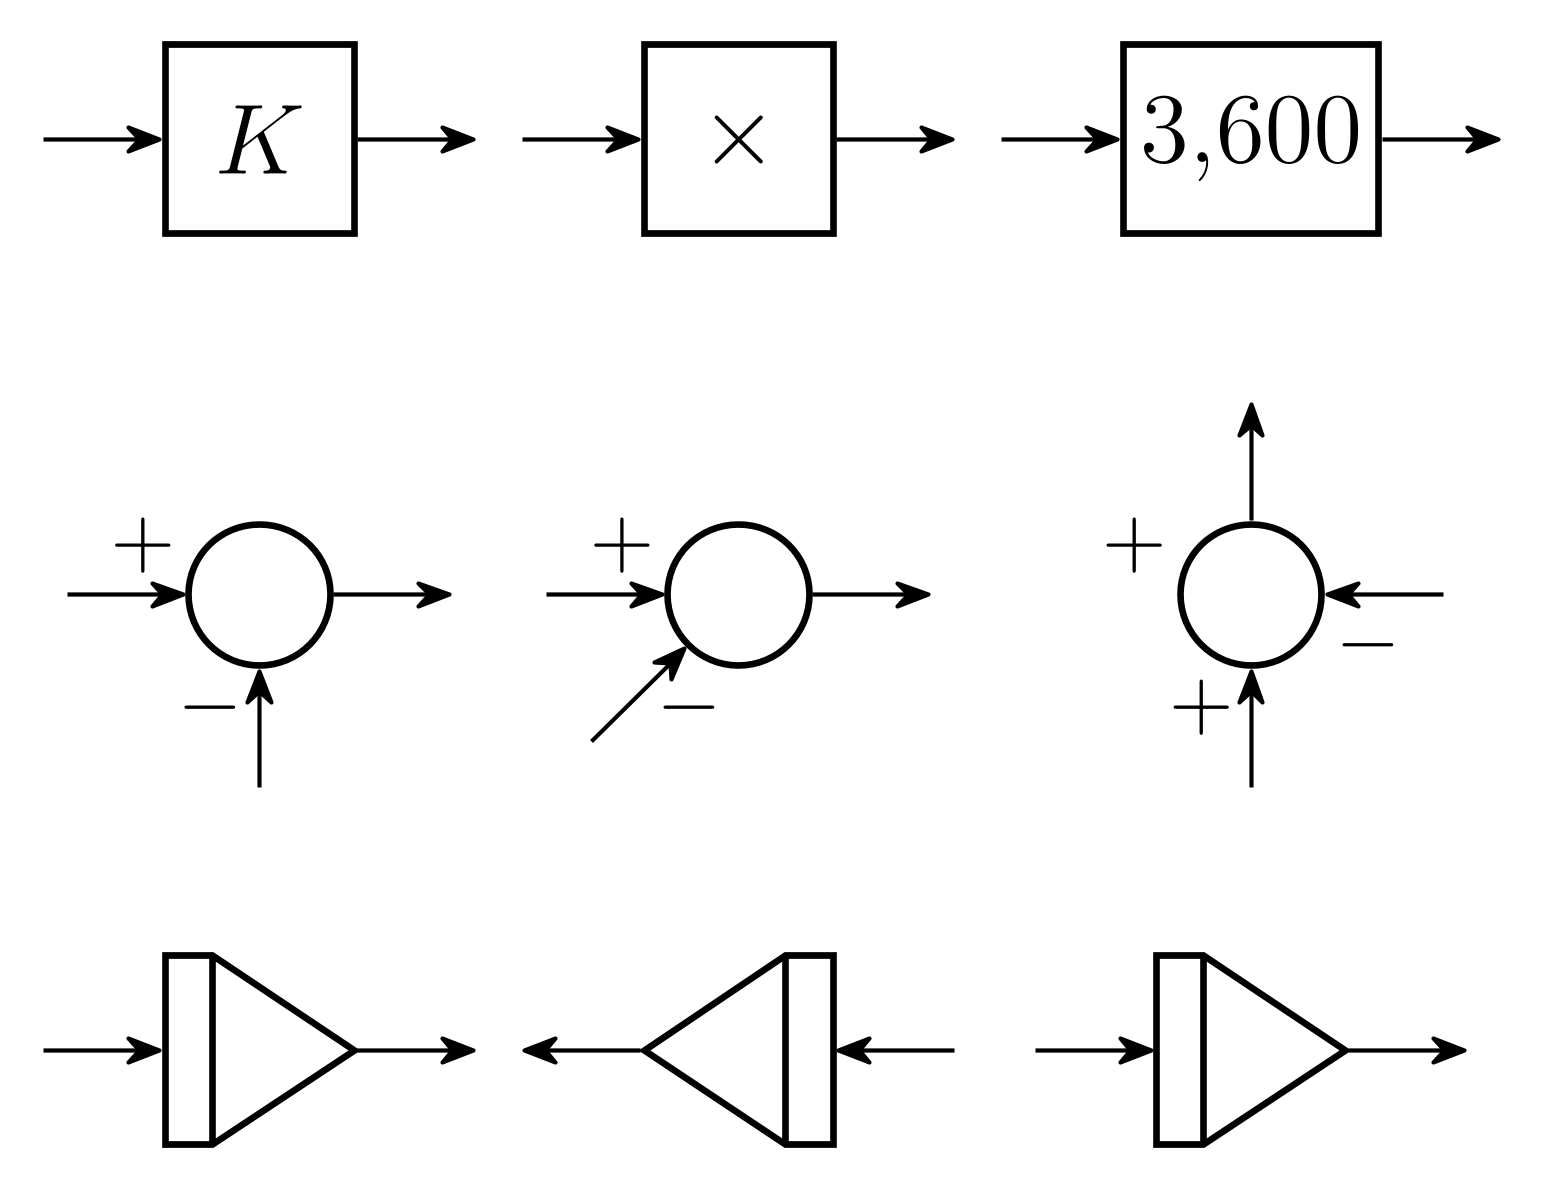
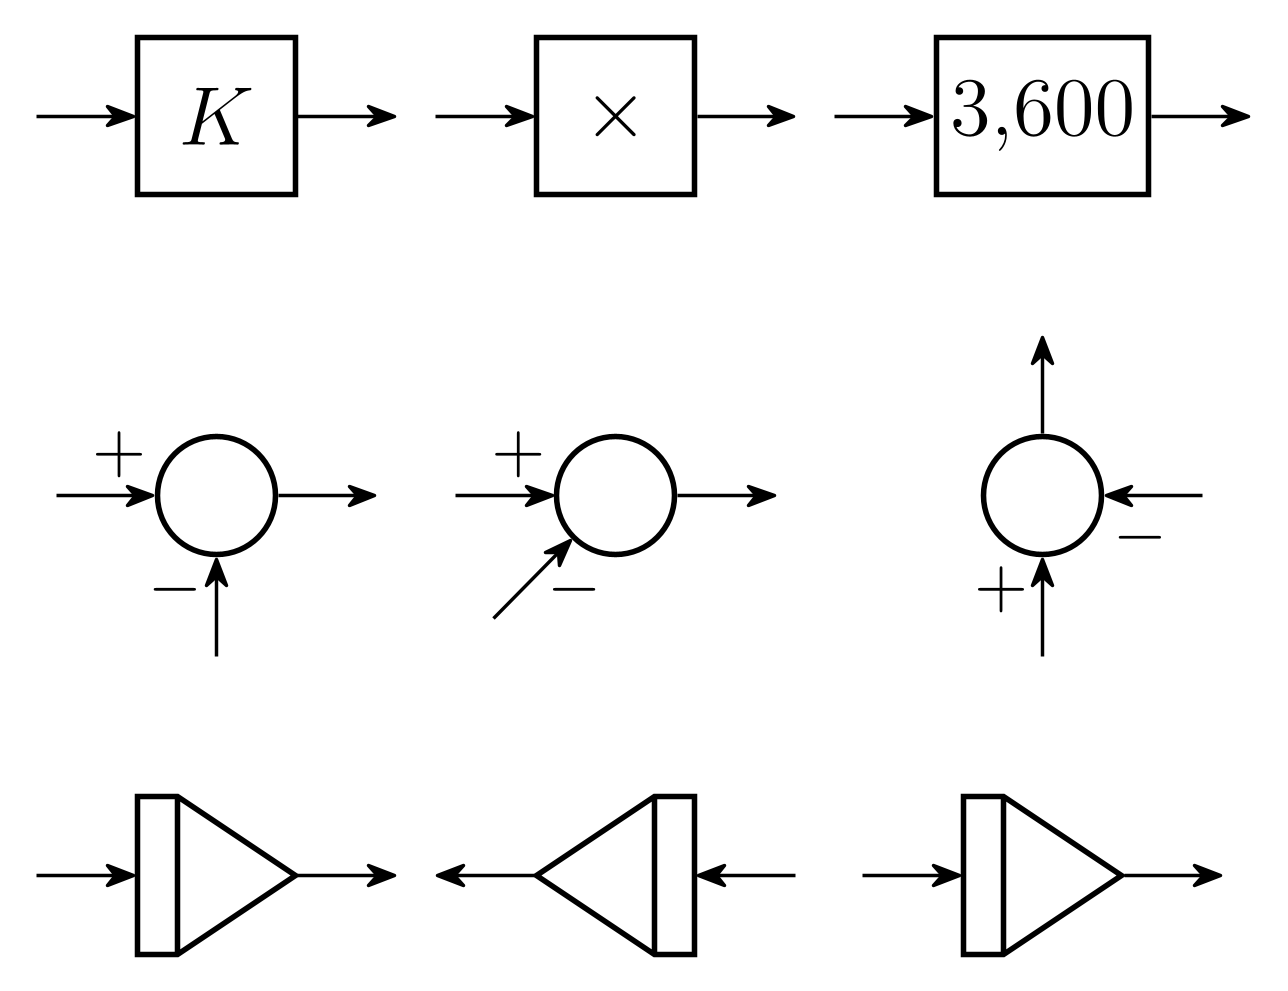
removed minus sign in showcase

diff --git a/examples/showcase-control-shapes.tex b/examples/showcase-control-shapes.tex
@@ -12,7 +12,7 @@
 
     \node[sum, below=of m1, sum signs={west=+, south=-}] (s1) {};
     \node[sum, below=of m2, sum signs={west=+, south=-}] (s2) {};
-    \node[sum, below=of m3, sum signs={west=+, south=+, east=-}] (s3) {};
+    \node[sum, below=of m3, sum signs={south=+, east=-}] (s3) {};
     
     \node[int, below=of s1] (i1) {};
     \node[int, integrator reversed=true, below=of s2] (i2) {};
